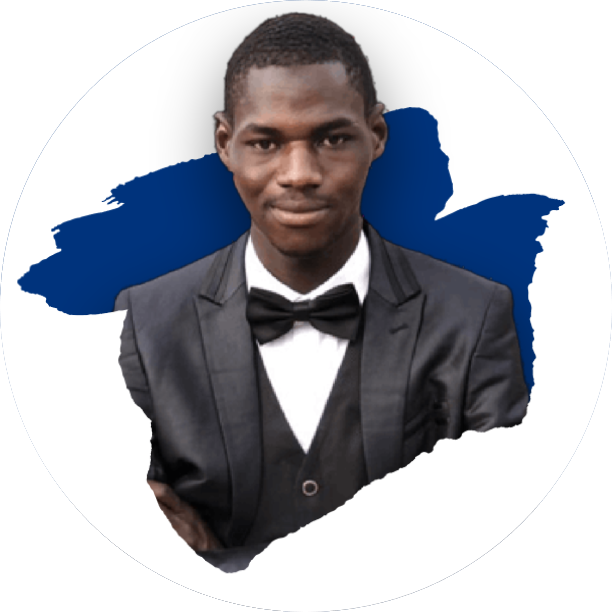
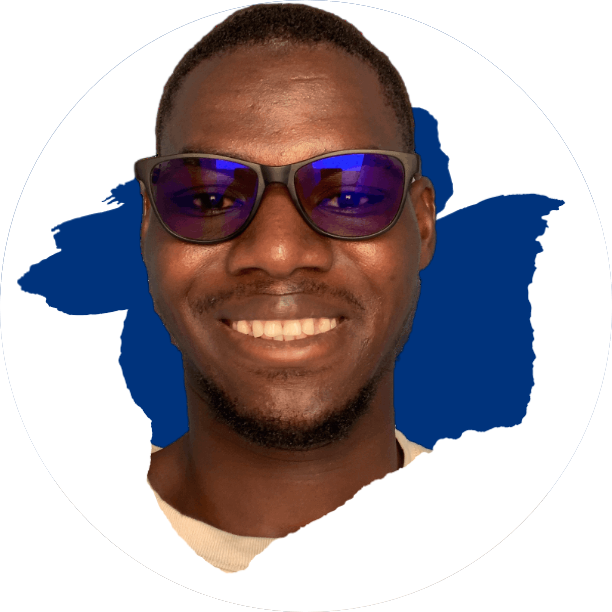
ok

diff --git a/assets/css/style.css b/assets/css/style.css
@@ -75,6 +75,7 @@ body {
   font-size: var(--font-size-base);
   line-height: 1.5;
   font-weight: 400;
+  overflow-x: hidden;
 }
 
 h1,
@@ -148,6 +149,10 @@ button:focus-visible {
     color: var(--color-secondary-dark);
     border: 2px solid var(--color-secondary-dark);
   }
+
+  label {
+    color: var(--color-secondary-dar);
+  }
 }
 
 @media (prefers-color-scheme: dark) {
@@ -201,12 +206,14 @@ button:focus-visible {
 .section {
   padding-top: 3rem;
   padding-bottom: 2rem;
+  border-bottom: 2px solid hsla(198, 72%, 39%, 0.3);
+
 }
 
 main {
-  max-width: 64rem;
   margin: auto;
 }
+
 
 section + section {
   padding-top: var(--mb-5);
@@ -220,6 +227,7 @@ section + section {
   grid-template-columns: 100%;
   grid-gap: 2rem;
   width: calc(100% - 2rem);
+  max-width: 64rem;
 }
 
 .l-header {
@@ -280,10 +288,6 @@ section + section {
     margin-bottom: var(--mb-4);
   }
 
-  .nav--item:last-child {
-    margin-bottom: 0;
-  }
-
   .nav-link {
     position: relative;
     color: #ffffff;
@@ -326,7 +330,6 @@ section + section {
 
   .home--img {
     position: absolute;
-    /* top: 40%; */
     right: 5%;
     bottom: 0;
     width: 2.5rem;
@@ -344,6 +347,7 @@ section + section {
 
 .home--data {
   align-self: center;
+  position: relative;
 }
 
 .home--title {
@@ -378,9 +382,9 @@ section + section {
 
 .home--img {
   position: absolute;
-  top: 40%;
-  right: 5%;
-  bottom: 0;
+  /* top: 70%; */
+  right: 0;
+  bottom: 0%;
   width: 18.5rem;
   height: 18.5rem;
   /* background-color: red; */
@@ -410,6 +414,7 @@ section + section {
 .about--container {
   row-gap: 2rem;
   text-align: center;
+  overflow-x: hidden;
 }
 
 .about-title {
@@ -436,6 +441,7 @@ section + section {
 .skills--container {
   row-gap: 2rem;
   text-align: center;
+  overflow-x: hidden;
 }
 
 .skills--subtitle {
@@ -455,19 +461,28 @@ section + section {
   font-weight: var(--font-semi);
   position: relative;
   box-shadow: 0 4px 25px rgba(14, 36, 49, 0.5);
-  border-radius: 0.5rem;
-  padding: 0.5rem 1rem;
+  border-top-left-radius: 0.5rem;
+  border-top-right-radius: 0.5rem;
+  padding: 0.5rem;
+  background-color: var(--color-secondary-dark);
 }
 
 .skills--icon {
   font-size: 1.5rem;
-  margin-right: var(--mb-2);
+  margin-right: var(--mb-1);
 }
 
-.skills--name {
+.skills--names {
   display: flex;
   align-items: center;
+  margin-right: .5rem;
+  color: #ffffff;
 }
+
+/* .skills--name {
+  display: flex;
+  align-items: center;
+} */
 
 .skills--bar {
   position: absolute;
@@ -476,16 +491,14 @@ section + section {
   height: .25rem;
   width: 90%;
   background-color: var(--color-primary);
-  /* border-bottom-right-radius: 0.5rem; */
-  border-radius: 0.5rem;
   z-index: var(--z-back);
 }
 
 .skills--percentage {
   position: absolute;
   right: 2%;
-  bottom: 0;
-  font-size: 0.75rem;
+  bottom: 10%;
+  font-size: 0.8rem;
   font-weight: var(--font-semi);
   color: var(--color-primary-light);
 }
@@ -498,9 +511,11 @@ section + section {
 
 .work--container {
   row-gap: 2rem;
+  overflow-x: hidden;
 }
 
 .work--img {
+  border: 2px solid rgba(49, 49, 49, 0.5);
   border-radius: .5rem;
   box-shadow: 0 4px 25px rgba(14, 36, 49, 0.5);
 }
@@ -546,7 +561,7 @@ label {
   margin-top: var(--mb-3);
   font-size: var(--font-size-base);
   font-weight: var(--font-semi);
-  color: rgba(255, 255, 255, 0.9);
+  /* color: rgba(255, 255, 255, 0.9); */
 }
 
 .contact--input {
@@ -675,6 +690,7 @@ footer {
 
   .nav-link {
     padding: 0.5rem 1rem;
+
   }
 
   .nav-link:hover {
@@ -682,10 +698,32 @@ footer {
   }
 
   .nav-link:hover::after {
+    content: "";
+    position: absolute;
+    left: 0;
+    bottom: -0.1rem;
+    width: 50%;
+    height: 2px;
     background-color: var(--color-primary-light);
-  } 
+  }
 
-   .active::after {  
+  /* .nav-link:hover::after {
+    content: "";
+    position: absolute;
+    left: 0;
+    width: 50%;
+    bottom: -.1rem;
+    height: 0.18rem;
+    background-color: var(--color-primary);
+  } 
+*/
+  .active::after {
+    content: "";
+    position: absolute;
+    left: 0;
+    bottom: -0.1rem;
+    width: 50%;
+    height: 2px;
     background-color: var(--color-primary-light);
   }
   
@@ -704,6 +742,7 @@ footer {
 }
 
 .home {
+  /* height: calc(100vh + 3rem); */
   height: 100vh;
 }
 
@@ -729,8 +768,8 @@ footer {
 }
 
 .home--img {
-  width: 30rem;
-  bottom: 35%;
+  width: 20rem;
+  bottom: 0;
   right: 10%;
 }
 

diff --git a/index.html b/index.html
@@ -46,8 +46,8 @@
     <!-- Home Section -->
     <section class="home bd-grid" id="home">
       <div class="home--data">
-        <h1 class="home--title">Hi, <br> I'm <span class="home--title-clr">Ibrahim</span><br>Web Developer.</h1>
-        <a href="#" class="button">Contact Me</a>
+        <h1 class="home--title">Hi, <br> I'm <span class="home--title-clr">Ibrahim</span>,<br>Web Developer.</h1>
+        <a href="#contact" class="button">Contact Me</a>
       </div>
 
       <div class="home--social">
@@ -57,7 +57,7 @@
       </div>
 
       <div class="home--img">
-        <img src="assets/imgs/profile-pic(7).png" alt="">
+        <img src="assets/imgs/profile-pic.png" alt="">
       </div>
     </section>
 
@@ -67,7 +67,7 @@
 
       <div class="about--container bd-grid">
         <div class="about--img">
-          <img src="assets/imgs/profile-pic2.png" alt="">
+          <img src="assets/imgs/profile.png" alt="">
         </div>
         <div>
           <h2 class="about--subtitle">I'm <span class="home--title-clr">Ibrahim</span></h2>
@@ -181,7 +181,7 @@
 
       <div class="work--container bd-grid">
         <div class="work--img">
-          <img src="assets/imgs/profile-pic(2).png" alt="">
+          <img src="assets/imgs/work1.png" alt="">
           <a href="#" class="project--link">Project 1</a>
         </div>
         <div class="work--img">

diff --git a/assets/js/main.js b/assets/js/main.js
@@ -46,7 +46,7 @@ const sr = ScrollReveal({
 // Scroll home
 sr.reveal(".home--title", {});
 sr.reveal(".button", { delay: 200 });
-sr.reveal(".home--img", { origin: "right", delay: 400 });
+sr.reveal(".home--img", { origin: "top", delay: 400 });
 sr.reveal(".home--social-icon", { interval: 200 });
 
 
